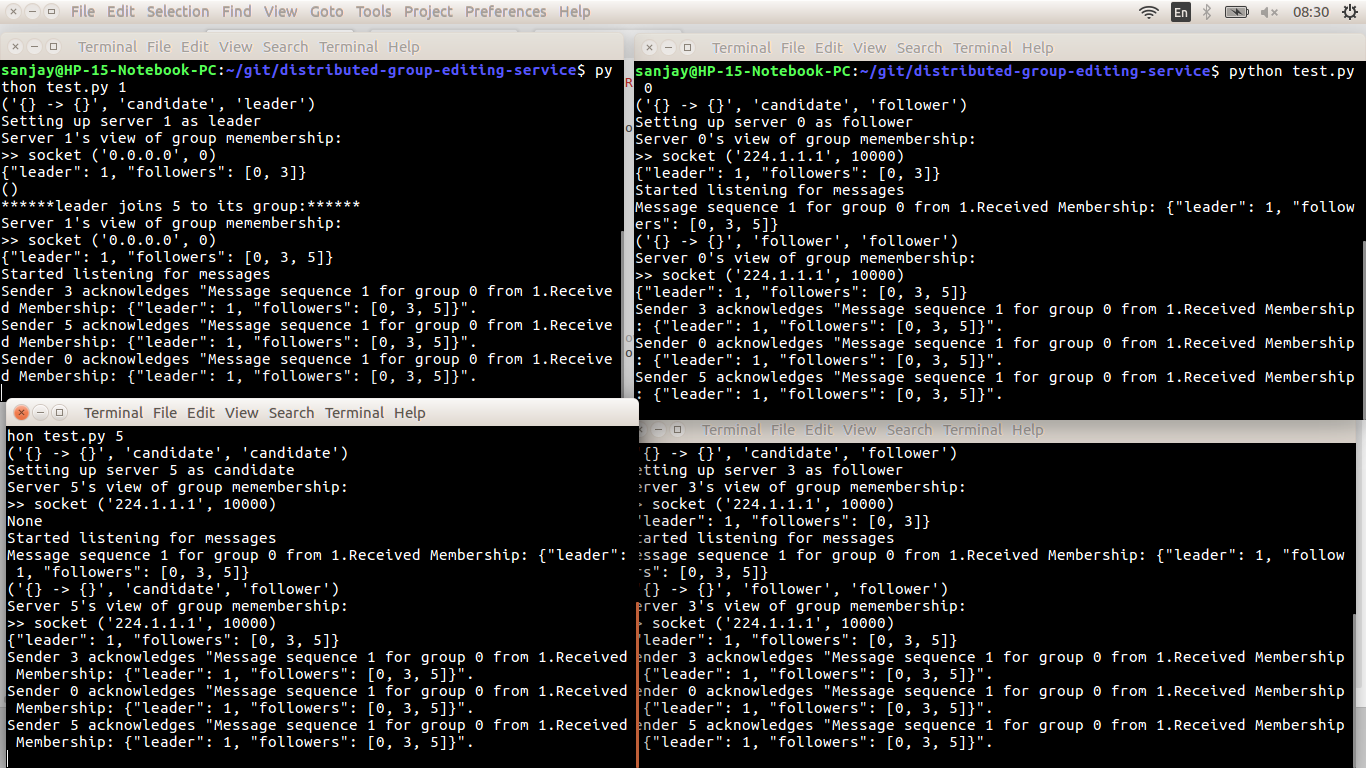
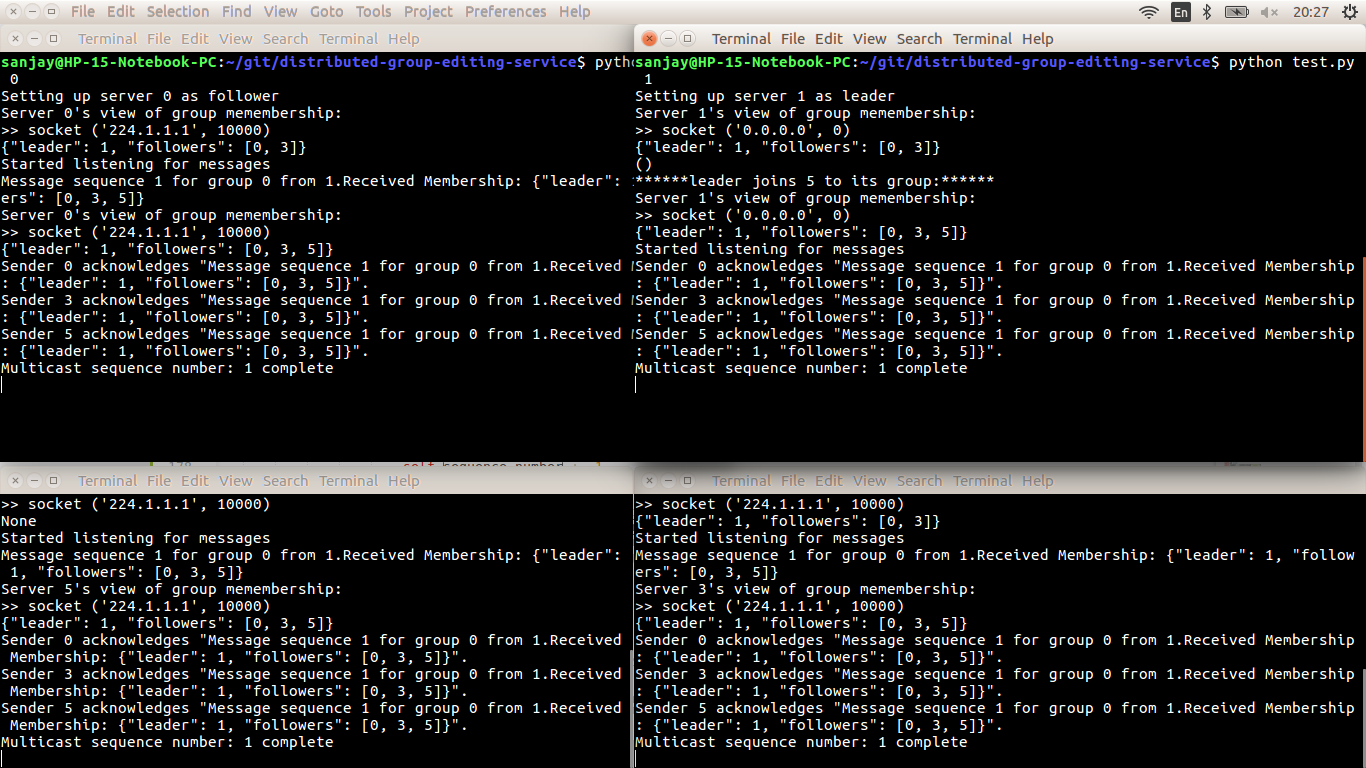
implemented peer consensus and commit

diff --git a/membership.py b/membership.py
@@ -22,6 +22,7 @@ class Server(object):
 
         # Comms
         self.sequence_number = 1
+        self.commit_pending = False
         self.received_messages = {} # a dictionary for sender_id: sequence_number pairs to keep track of what messages this server has received
         self.message_bag = queue.Queue(maxsize=400)
 
@@ -106,7 +107,7 @@ class Server(object):
         data_string = pickle.dumps(message)
         #pdb.set_trace()
         return_code = self.send_msg(data_string)
-        self.sequence_number += 1
+        self.commit_pending = True
         return "multicast_sent"
 
     def receive(self):
@@ -115,26 +116,28 @@ class Server(object):
         while True:
             response, server = self.recv_response()
             if response != "timeout":
+                try:
+                    if response.get_sequence_number() in self.received_messages[response.get_sender_id()]:
+                        print("previously_received_message")
+                        # return
+                except KeyError:
+                    self.received_messages[response.get_sender_id()] = []
+                self.received_messages[response.get_sender_id()].append(response.get_sequence_number())
+
                 # Leader only receives acknowledgments
                 if self.current_state == "Leader" and isinstance(response, AcknowledgementMessage):
                     # TODO: check all follower received response, otherwise resend
                     print(response.repr())
                 else:
-                    try:
-                        if response.get_sequence_number() in self.received_messages[response.get_sender_id()]:
-                            print("previously_received_message")
-                            # return
-                        
-                    except KeyError:
-                        self.received_messages[response.get_sender_id()] = []
-
                     # In any case
                     # Others handle every type of Message
                     if isinstance(response, AcknowledgementMessage):
-                        # Should not receive Ack if not a leader, but lets just print
                         print(response.repr())
                     elif isinstance(response, MembershipMessage):
                         print(response.repr())
+                        # Modify state
+                        self.sequence_number = response.get_sequence_number()
+                        self.commit_pending = True
                         # Modify Membership
                         self.modify_membership(response.get_membership_dict())
                         # Acknowledge
@@ -158,7 +161,29 @@ class Server(object):
                         print("Send a Message object")
                     
                     # return response
-
+            else :
+                if self.group != None and self.received_messages and self.commit_pending:
+                    sequence_success = True
+                    for follower in self.group.followers:
+                        try:
+                            if self.sequence_number not in self.received_messages[follower]:
+                                sequence_success = False
+                                break
+                        except KeyError:
+                            # print("Waiting for first message")
+                            sequence_success = False
+                
+                    if sequence_success:
+                        print("Multicast sequence number: {} complete".format(self.sequence_number))
+                        self.sequence_number += 1
+                        self.commit_pending = False
+                    else:
+                        print("sequence number {} not found in followers {}, all messages_received {}"
+                            .format(self.sequence_number, self.group.followers, self.received_messages))
+                        print("Multicast sequence number: {} failed".format(self.sequence_number))
+                        # If follower, discard message
+                        # If leader, resend message
+             
 
 
 class Group(object):
